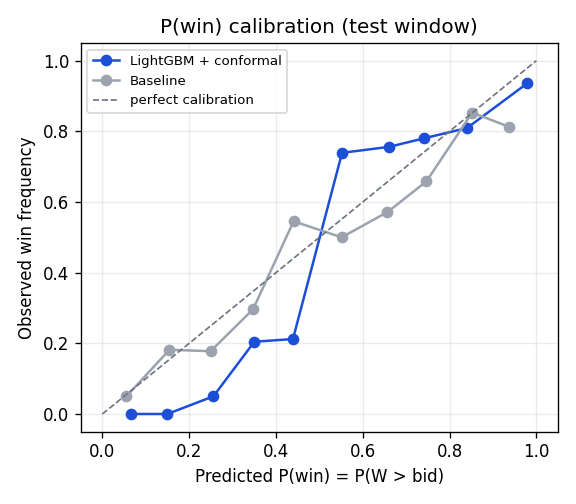
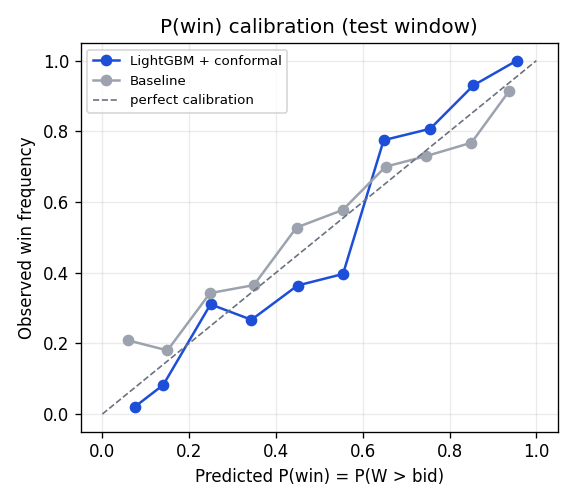
Load newly watched classes from the worker, not at boot; top lines follow the watchlist
The first deploy switched the live demo orgs to the weapon-system catalog but queued the new classes' RFQ load at boot,
where the outgoing worker took the jobs and lost them: the demo had no lines. The worker (at startup, after its delay)
and the hourly ops check now queue the recent-RFQ load and the history backfill for any watched class with no line on
file and no load recorded; the load records a checkpoint so empty classes are not retried. The public top lines no
longer show recommendations from classes the demo org stopped watching.

diff --git a/backend/app/jobs/tasks.py b/backend/app/jobs/tasks.py
@@ -57,11 +57,48 @@ def nightly_backfill_job() -> dict:
 
 
 def expand_watchlist_job(fscs: list[str]) -> dict:
-    """Default queue (serialized with the ingest): it upserts the same tables."""
+    """Default queue (serialized with the ingest): it upserts the same tables. Records each class as loaded, so
+    queue_new_fsc_loads_if_needed never loads it again (even when DIBBS had no recent RFQs for it)."""
+    from sqlalchemy import select
+
+    from app.models import IngestCheckpoint
     from app.pipelines.ingest import ingest_new_fscs
 
     with session_scope() as db:
-        return ingest_new_fscs(db, set(fscs))
+        out = ingest_new_fscs(db, set(fscs))
+        done = {k for (k,) in db.execute(
+            select(IngestCheckpoint.key).where(IngestCheckpoint.source == "fsc_load", IngestCheckpoint.key.in_(fscs))
+        ).all()}
+        for f in sorted(set(fscs) - done):
+            db.add(IngestCheckpoint(source="fsc_load", key=f, status="done", detail=str(out.get("new_lines"))))
+        return out
+
+
+def queue_new_fsc_loads_if_needed() -> list[str]:
+    """Live mode: watched supply classes never loaded (no line on file, no load recorded) get their recent RFQs and,
+    on the bulk queue, their price history. Not a job itself: the worker calls it at startup (on the newest code) and
+    the hourly ops check, so a load queued during a deploy and lost to it is picked up again."""
+    from sqlalchemy import select
+
+    from app.config import get_settings
+    from app.jobs.queue import enqueue_unique
+    from app.models import IngestCheckpoint, SolicitationLine
+    from app.pipelines.ingest import watched_fscs
+
+    if get_settings().connector_mode != "live":
+        return []  # fixture/demo databases load a newly watched class from the settings change itself
+    with session_scope() as db:
+        watched = watched_fscs(db)
+        loaded = {k for (k,) in db.execute(select(IngestCheckpoint.key).where(IngestCheckpoint.source == "fsc_load")).all()}
+        with_lines = {f for (f,) in db.execute(
+            select(SolicitationLine.fsc).where(SolicitationLine.fsc.in_(watched)).distinct()
+        ).all()}
+    missing = sorted(watched - loaded - with_lines)
+    if missing:
+        enqueue_unique(expand_watchlist_job, missing)
+        enqueue_unique(catalog_backfill_job, missing, job_timeout=8 * 3600)
+        log.info("never-loaded watched FSCs %s: queued their recent RFQs and history", missing)
+    return missing
 
 
 @bulk
@@ -216,6 +253,7 @@ def ops_check_job() -> dict:
 
     queue_engine_refresh_if_needed()
     queue_retrain_if_model_code_changed()
+    queue_new_fsc_loads_if_needed()
     with session_scope() as db:
         return run_ops_check(db)
 

diff --git a/backend/tests/test_demo_refresh.py b/backend/tests/test_demo_refresh.py
@@ -146,3 +146,35 @@ def test_switch_demo_watchlists_moves_fastener_demo_orgs_to_the_weapons_catalog(
     assert db.get(OrgSettings, ids["custom"]).fsc_watchlist == ["5305", "6515"]
     assert db.get(OrgSettings, ids["real"]).fsc_watchlist == list(LEGACY_FSC_WATCHLIST)
     assert switch_demo_watchlists(db) == {}  # once only
+
+
+def test_never_loaded_watched_fscs_are_queued_once_on_the_newest_code(client, db, monkeypatch):
+    from datetime import date as date_
+
+    from app.config import get_settings
+    from app.jobs import queue, tasks
+    from app.models import IngestCheckpoint, OrgSettings
+
+    org_id = signup(client, "owner@switch-demo.example.com", org="switch (demo)")["organization"]["id"]
+    db.get(OrgSettings, org_id).fsc_watchlist = ["1005", "6145"]
+    db.commit()
+    calls = []
+    monkeypatch.setattr(queue, "enqueue_unique", lambda func, *a, **k: calls.append((func.__name__, a)) or "job")
+    monkeypatch.setattr(get_settings(), "connector_mode", "fixture")
+    assert tasks.queue_new_fsc_loads_if_needed() == []  # fixture databases load from the settings change
+
+    monkeypatch.setattr(get_settings(), "connector_mode", "live")
+    sol = Solicitation(solicitation_number="SPE7M026T9999", type_code="T", issue_date=date_.today(),
+                       return_by_date=date_.today())
+    db.add(sol)
+    db.flush()
+    db.add(SolicitationLine(solicitation_id=sol.id, line_no=1, nsn="6145012345678", fsc="6145", niin="012345678", quantity=1))
+    db.commit()
+    assert tasks.queue_new_fsc_loads_if_needed() == ["1005"]  # 6145 already has lines
+    assert ("expand_watchlist_job", (["1005"],)) in calls and ("catalog_backfill_job", (["1005"],)) in calls
+
+    monkeypatch.setattr("app.pipelines.ingest.ingest_new_fscs", lambda db, fscs: {"new_lines": 0})
+    tasks.expand_watchlist_job(["1005"])  # DIBBS had nothing recent for it: still recorded as loaded
+    assert db.execute(select(IngestCheckpoint).where(IngestCheckpoint.source == "fsc_load")).scalar_one().key == "1005"
+    calls.clear()
+    assert tasks.queue_new_fsc_loads_if_needed() == [] and calls == []

diff --git a/backend/app/cli.py b/backend/app/cli.py
@@ -109,26 +109,15 @@ def _maybe_queue_initial_live_load() -> None:
 
 
 def _maybe_switch_catalog() -> None:
-    """Demo orgs still on the fastener classes move to the weapon-system catalog; its recent RFQs load now and, on a live
-    deployment, its price history is backfilled and the model retrained."""
+    """Demo orgs still on the fastener classes move to the weapon-system catalog. The worker then loads the new classes'
+    recent RFQs and (live) price history: queued from here, the outgoing deployment's worker could take the jobs."""
     from app.db import session_scope
-    from app.jobs.queue import enqueue
-    from app.jobs.tasks import catalog_backfill_job, expand_watchlist_job
-    from app.pipelines.ingest import watched_fscs
     from app.services.demo_refresh import switch_demo_watchlists
 
     with session_scope() as db:
-        before = watched_fscs(db)
         switched = switch_demo_watchlists(db)
-        new = sorted(watched_fscs(db) - before) if switched else []
-    if not switched:
-        return
-    typer.echo(f"catalog: demo watchlists switched {switched}")
-    if new:
-        typer.echo(f"catalog: loading recent RFQs for {new} (job {enqueue(expand_watchlist_job, new)})")
-        if get_settings().connector_mode == "live":
-            job = enqueue(catalog_backfill_job, new, job_timeout=8 * 3600)
-            typer.echo(f"catalog: backfilling price history for {new} (job {job})")
+    if switched:
+        typer.echo(f"catalog: demo watchlists switched {switched}; the worker loads the new classes")
 
 
 def _maybe_queue_engine_refresh() -> None:

diff --git a/backend/app/api/routes/public.py b/backend/app/api/routes/public.py
@@ -17,7 +17,7 @@ from sqlalchemy.orm import Session
 from app.config import get_settings
 from app.core.timeutil import today_et
 from app.db import get_db
-from app.models import Organization, Recommendation, Solicitation, SolicitationLine
+from app.models import Organization, OrgSettings, Recommendation, Solicitation, SolicitationLine
 from app.services.accounts import DEMO_VIEWER_ORG
 from app.services.biddable import not_awarded
 
@@ -53,12 +53,15 @@ def top_lines(db: Session = Depends(get_db)) -> list[TopLine]:
     if org is None:
         return []
     today = today_et()
+    s = db.get(OrgSettings, org.id)
+    watched = list(s.fsc_watchlist or []) if s else []
     rows = db.execute(
         select(Recommendation, SolicitationLine, Solicitation)
         .join(SolicitationLine, Recommendation.solicitation_line_id == SolicitationLine.id)
         .join(Solicitation, SolicitationLine.solicitation_id == Solicitation.id)
         .where(
             Recommendation.organization_id == org.id,
+            SolicitationLine.fsc.in_(watched),  # not lines from classes the demo stopped watching
             Recommendation.no_bid.is_(False),
             Recommendation.recommended_bid.is_not(None),
             Solicitation.return_by_date >= today,

diff --git a/backend/app/jobs/worker.py b/backend/app/jobs/worker.py
@@ -64,6 +64,9 @@ def _queue_startup_jobs() -> None:
 
         queue_retrain_if_model_code_changed()
         queue_research_if_requested()  # cheap when the demo is already topped up
+        from app.jobs.tasks import queue_new_fsc_loads_if_needed
+
+        queue_new_fsc_loads_if_needed()  # e.g. the demo orgs' switch to the weapon-system catalog at boot
     except Exception:  # never take the worker down
         log.exception("startup jobs could not be queued")
 

diff --git a/ml/reports/latest_model.md b/ml/reports/latest_model.md
@@ -1,8 +1,8 @@
 # Latest pricing model
 
-Model run **#2**: not promoted (pinball 0.0689 >= active 0.0689).
+Model run **#2**: not promoted (pinball 0.0610 >= active 0.0610).
 
-_Trained on 1,458 award rows, of which 1,454 are the synthetic demo history from `make seed`. Metrics on synthetic data show the pipeline works; they are not evidence about real DIBBS prices._
+_Trained on 1,766 award rows, of which 1,762 are the synthetic demo history from `make seed`. Metrics on synthetic data show the pipeline works; they are not evidence about real DIBBS prices._
 
 ## Data and time windows
 
@@ -10,9 +10,9 @@ Time-based split, never random: train on everything up to T-4 months, conformal 
 
 | Window | Dates | Rows |
 |---|---|---|
-| Train | 2023-01-01 .. 2026-06-15 | 1,354 |
-| Calibrate | 2026-06-15 .. 2026-07-15 | 33 |
-| Test | 2026-07-15 .. 2026-10-15 | 71 |
+| Train | 2023-01-02 .. 2026-07-18 | 1,611 |
+| Calibrate | 2026-07-18 .. 2026-08-18 | 37 |
+| Test | 2026-08-18 .. 2026-11-18 | 118 |
 
 
 Cold-start share of test rows (no prior award for the NSN): 0.0%.
@@ -23,13 +23,13 @@ Target: log(winning unit price / reference price). Pinball loss is averaged over
 
 | Metric | LightGBM + conformal | LightGBM (uncalibrated) | Baseline |
 |---|---|---|---|
-| Mean pinball loss | **0.0689** | 0.0636 | 0.0931 |
-| MAPE of median | 19.2% | 18.7% | 29.3% |
-| Median abs. % error | 14.2% | 13.5% | 19.2% |
-| 80% interval coverage | 85.9% | 66.2% | 77.5% |
-| 90% interval coverage | 90.1% | 77.5% | 85.9% |
+| Mean pinball loss | **0.0610** | 0.0585 | 0.1020 |
+| MAPE of median | 17.1% | 16.3% | 29.4% |
+| Median abs. % error | 13.5% | 12.6% | 22.5% |
+| 80% interval coverage | 95.8% | 69.5% | 73.7% |
+| 90% interval coverage | 98.3% | 79.7% | 82.2% |
 
-Previously active model on the same test window: pinball 0.0689, 80% coverage 85.9%.
+Previously active model on the same test window: pinball 0.0610, 80% coverage 95.8%.
 
 ![Pinball loss by quantile](pinball.png)
 
@@ -37,9 +37,9 @@ Previously active model on the same test window: pinball 0.0689, 80% coverage 85
 
 | Level | 0.05 | 0.10 | 0.20 | 0.30 | 0.40 | 0.50 | 0.60 | 0.70 | 0.80 | 0.90 | 0.95 |
 |---|---|---|---|---|---|---|---|---|---|---|---|
-| Model | 0.10 | 0.13 | 0.14 | 0.28 | 0.38 | 0.55 | 0.73 | 0.90 | 0.97 | 0.99 | 1.00 |
-| Before conformal | 0.17 | 0.20 | 0.28 | 0.32 | 0.38 | 0.48 | 0.56 | 0.68 | 0.76 | 0.86 | 0.94 |
-| Baseline | 0.10 | 0.14 | 0.23 | 0.38 | 0.45 | 0.54 | 0.62 | 0.70 | 0.83 | 0.92 | 0.96 |
+| Model | 0.01 | 0.02 | 0.11 | 0.28 | 0.42 | 0.57 | 0.64 | 0.81 | 0.86 | 0.97 | 0.99 |
+| Before conformal | 0.08 | 0.12 | 0.21 | 0.35 | 0.42 | 0.49 | 0.54 | 0.63 | 0.71 | 0.81 | 0.88 |
+| Baseline | 0.08 | 0.10 | 0.20 | 0.29 | 0.36 | 0.49 | 0.61 | 0.67 | 0.77 | 0.84 | 0.90 |
 
 ![Coverage](coverage.png)
 
@@ -49,18 +49,18 @@ For every test line, 5 bids are sampled around the reference price (b = ref x ex
 
 | Predicted bucket | Mean predicted | Observed | Count |
 |---|---|---|---|
-| 0.0-0.1 | 0.065 | 0.000 | 22 |
-| 0.1-0.2 | 0.150 | 0.000 | 23 |
-| 0.2-0.3 | 0.256 | 0.050 | 60 |
-| 0.3-0.4 | 0.350 | 0.205 | 44 |
-| 0.4-0.5 | 0.439 | 0.212 | 33 |
-| 0.5-0.6 | 0.552 | 0.739 | 23 |
-| 0.6-0.7 | 0.661 | 0.756 | 41 |
-| 0.7-0.8 | 0.742 | 0.780 | 41 |
-| 0.8-0.9 | 0.841 | 0.810 | 21 |
-| 0.9-1.0 | 0.979 | 0.936 | 47 |
+| 0.0-0.1 | 0.075 | 0.021 | 48 |
+| 0.1-0.2 | 0.140 | 0.082 | 85 |
+| 0.2-0.3 | 0.249 | 0.310 | 29 |
+| 0.3-0.4 | 0.343 | 0.267 | 75 |
+| 0.4-0.5 | 0.450 | 0.364 | 22 |
+| 0.5-0.6 | 0.555 | 0.396 | 53 |
+| 0.6-0.7 | 0.648 | 0.775 | 40 |
+| 0.7-0.8 | 0.755 | 0.807 | 83 |
+| 0.8-0.9 | 0.855 | 0.930 | 86 |
+| 0.9-1.0 | 0.955 | 1.000 | 69 |
 
-Brier score 0.1334, expected calibration error 0.1228 (baseline: Brier 0.1923, ECE 0.0601).
+Brier score 0.1270, expected calibration error 0.0751 (baseline: Brier 0.2098, ECE 0.0517).
 
 ![P(win) calibration](calibration.png)
 
@@ -70,9 +70,9 @@ Assumption: landed cost = winning price x U(0.6, 0.95); bid wins iff bid < winni
 
 | Policy | Bids | Withheld by rules | Wins | Win rate | Total profit | Net of effort | Net per line | Wins below cost |
 |---|---|---|---|---|---|---|---|---|
-| model | 71 | 0 | 4 | 5.6% | $2,488 | $1,423 | $20.04 | 0 |
-| last_minus_2pct | 52 | 19 | 17 | 32.7% | $2,994 | $2,214 | $31.19 | 0 |
-| cost_plus_15pct | 71 | 0 | 56 | 78.9% | $5,298 | $4,233 | $59.62 | 0 |
+| model | 118 | 0 | 21 | 17.8% | $98,712 | $96,942 | $821.54 | 0 |
+| last_minus_2pct | 77 | 41 | 28 | 36.4% | $147,870 | $146,715 | $1,243.35 | 0 |
+| cost_plus_15pct | 118 | 0 | 93 | 78.8% | $268,719 | $266,949 | $2,262.28 | 0 |
 
 ![Backtest](backtest.png)
 
@@ -80,21 +80,21 @@ Assumption: landed cost = winning price x U(0.6, 0.95); bid wins iff bid < winni
 
 | Feature | Importance |
 |---|---|
-| qty_rel_median | 10.3% |
-| f_min | 9.0% |
-| log_qty_vs_last | 8.1% |
-| log_last_to_dod | 7.8% |
-| volatility | 7.4% |
-| f_last3_median | 7.0% |
-| trend_per_year | 6.9% |
-| f_max | 6.5% |
-| log_quantity | 6.3% |
-| log_ref_price | 5.8% |
-| days_since_last_award | 5.1% |
+| log_last_to_dod | 12.8% |
+| qty_rel_median | 8.9% |
+| log_qty_vs_last | 8.4% |
+| f_min | 7.5% |
+| f_max | 7.2% |
+| trend_per_year | 6.2% |
+| f_last3_median | 5.8% |
+| log_ref_price | 5.6% |
+| volatility | 5.5% |
+| days_since_last_award | 4.9% |
+| log_quantity | 4.0% |
 | inflation_change | 4.0% |
 | incumbent_share | 3.3% |
-| n_prior_awards | 2.6% |
-| type_code | 2.2% |
+| n_prior_awards | 3.0% |
+| fam_log_ref_vs_fsc | 2.1% |
 
 ## Caveats
 

diff --git a/DECISIONS.md b/DECISIONS.md
@@ -483,9 +483,13 @@ systems, and the screens lead with the answer while the maths stays one switch a
   Approved-source-only parts without a conforming quote stay no-bids: that rule is the product's, not the catalog's.
 - **Live switch, once, at boot.** `switch_demo_watchlists` moves demo orgs whose watchlist is still within the legacy
   fastener classes (`LEGACY_FSC_WATCHLIST`) to the new lists; a demo org on anything else, and every non-demo org, is left
-  alone, so a paying firm never has its classes changed. `bootstrap` then queues the recent-RFQ load for the new classes
-  and, in live mode, `catalog_backfill_job` (bounded like the initial live load: 800 PDFs, then a retrain under the normal
-  promotion rules). Fastener rows already in the database stay; they still train the model.
+  alone, so a paying firm never has its classes changed. Loading the new classes is **not queued from boot**: on the
+  first deploy it was, and the outgoing worker (still listening during the deploy) took the jobs and lost them, leaving
+  the live demo with no lines. Instead `queue_new_fsc_loads_if_needed` (live mode; worker startup after its 60 s delay,
+  and the hourly ops check) queues the recent-RFQ load and `catalog_backfill_job` (800 PDFs, then a retrain under the
+  normal promotion rules) for any watched class with no line on file and no `fsc_load` checkpoint; the load records
+  the checkpoint, so a class with no recent RFQs is not retried. Fastener rows already in the database stay; they still
+  train the model. The public top lines only show classes the demo org still watches.
 - **Simple view by default, "Show the maths" in the header.** Off: the RFQ page shows the bid, chance to win, expected
   profit and cost, the win-chance curve, the price story, who wins the part, past prices and suppliers. On: the triage
   factors, cost-model tier, DLA evaluation checks, sensitivity, decision history, competitor model, similar parts, landed

diff --git a/ml/reports/fsc_volume.md b/ml/reports/fsc_volume.md
@@ -1,12 +1,12 @@
 # FSC volume report
 
-Generated 2026-10-15 from the database (real DIBBS data only; synthetic SPEZZ* demo rows excluded).
+Generated 2026-11-18 from the database (real DIBBS data only; synthetic SPEZZ* demo rows excluded).
 
 Ranked by number of solicitations. `*` marks the current default watchlist.
 
 | FSC | Solicitations | Automated (T/U) | Median award value | NSNs with >= 3 awards | Distinct awardees | NSNs | Award rows |
 |---|---|---|---|---|---|---|---|
-| 6145 * | 58 | 100% | $372 | 0% | 2 | 55 | 2 |
+| 6145 | 58 | 100% | $372 | 0% | 2 | 55 | 2 |
 
 ## Observed in the captured index files
 
